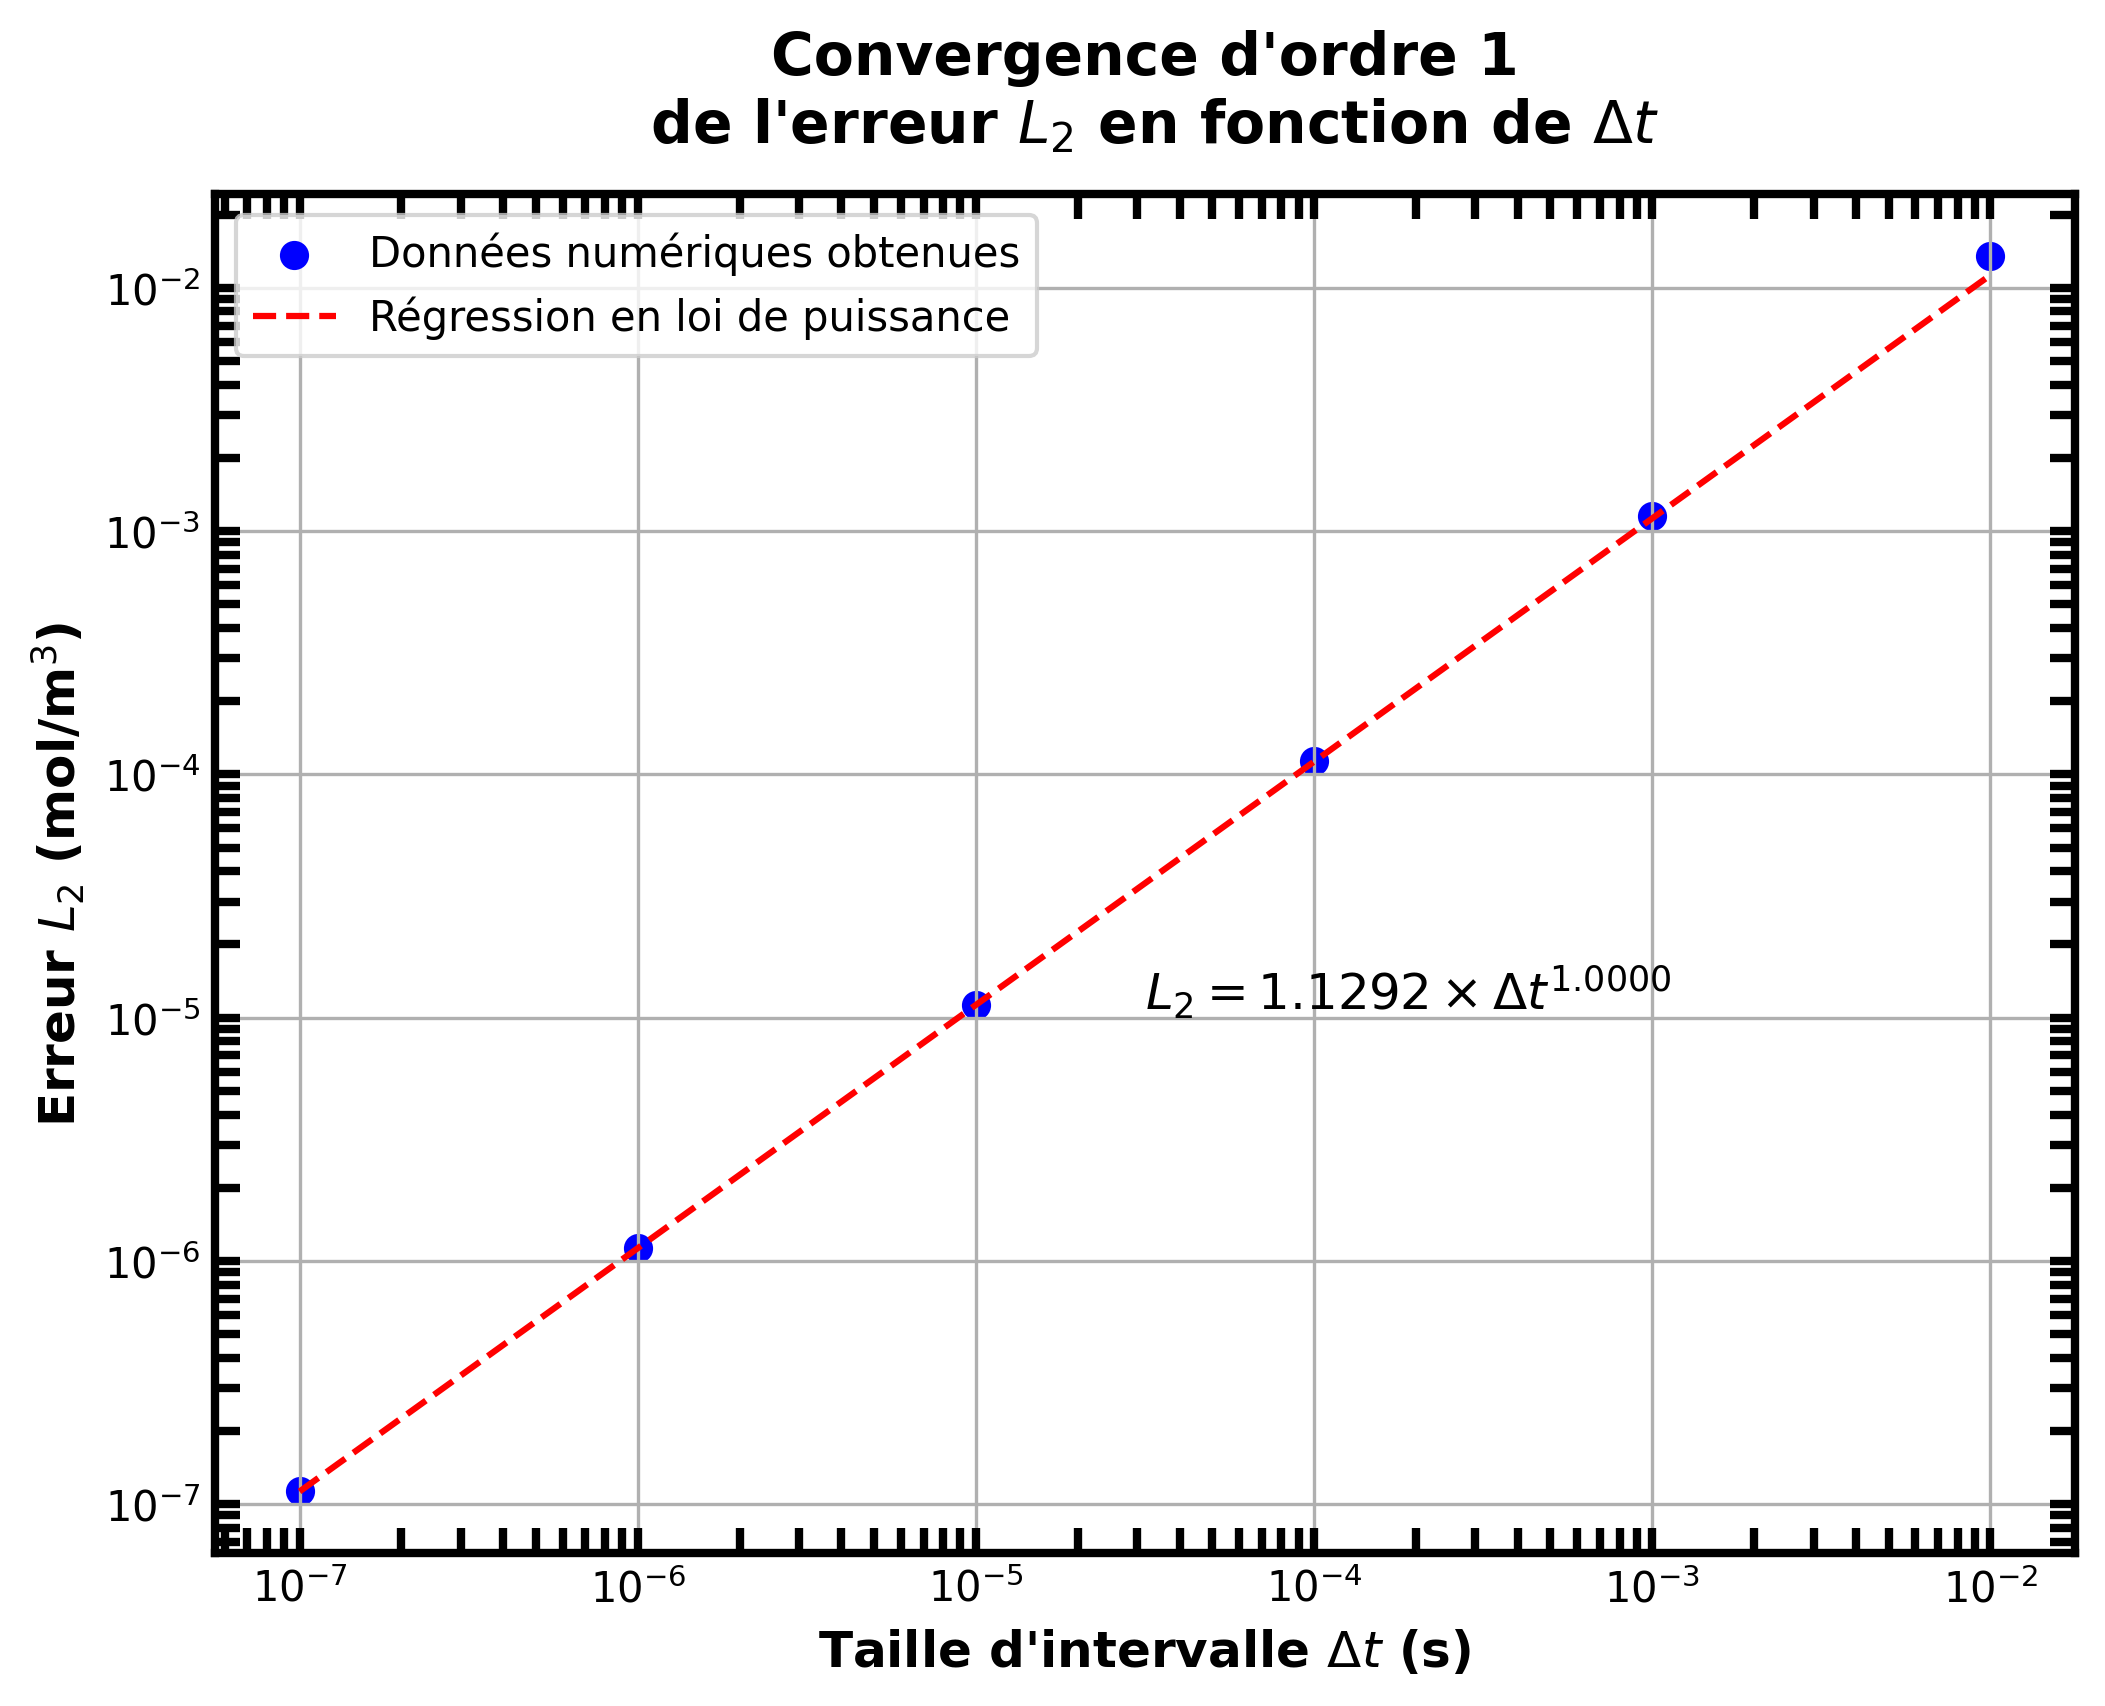
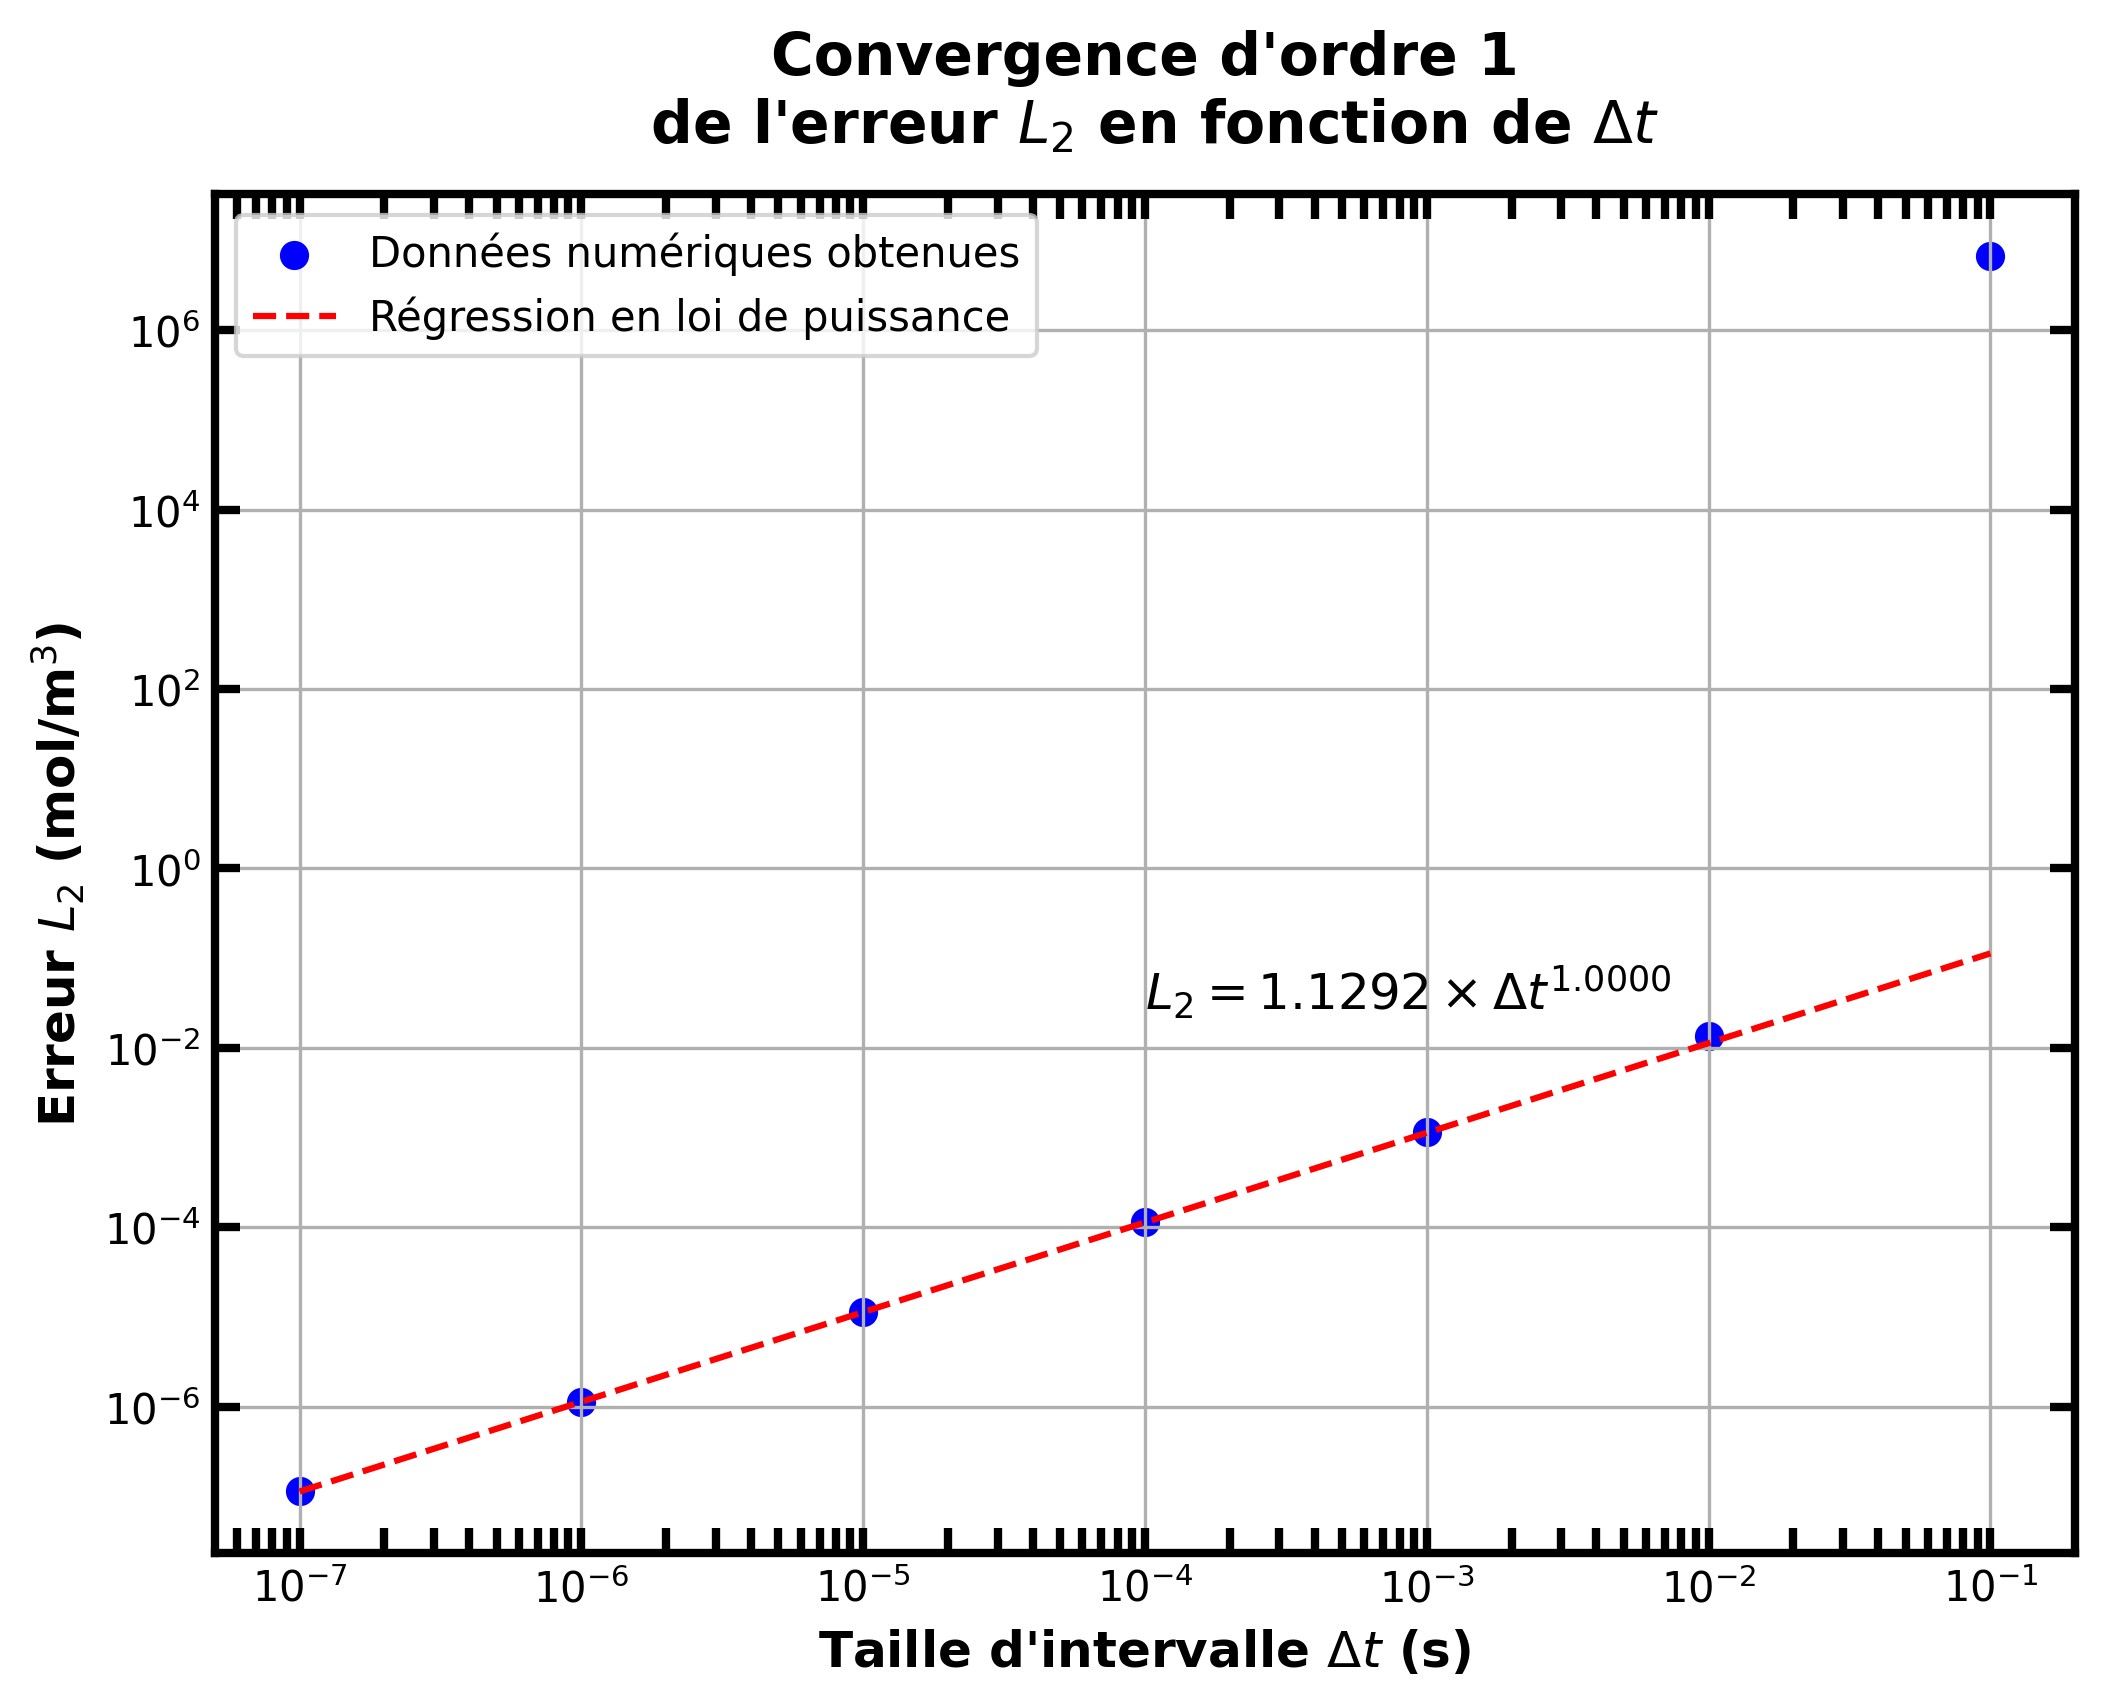
modification des anal_conv

diff --git a/src/anal_conv_euler.py b/src/anal_conv_euler.py
@@ -29,7 +29,7 @@ except:
 
 #%%============= ANALYSE CONVERGENCE - TEMPORELLE ===============%%#
 
-delta_t = np.array([1e-7,1e-6,1e-5,1e-4,1e-3,1e-2, 1e-1])
+delta_t = np.array([1e-5,1e-4,1e-3,1e-2, 1e-1])
 
 vec_l2_t = np.array([])
 
@@ -39,16 +39,14 @@ for i in range(0, len(delta_t)):
     
     x_anal, t = sol_analytique(prm)
 
-    vec_x, vec_v, vec_a, t = verlet(prm)
+    t_vect, x_vect, v_vect = euler(prm)
 
-    L2_verlet = f_L2(vec_x, x_anal)
+    L2_euler = f_L2(x_vect, x_anal)
 
-    vec_l2_t = np.append(vec_l2_t, L2_verlet)
-
-#vec_l2_t = np.array([1.128497e-7,1.128515e-6,1.1287e-5,1.1305e-4,1.14912e-3,1.3517e-2])
+    vec_l2_t = np.append(vec_l2_t, L2_euler)
 
 # Ajuster une loi de puissance à toutes les valeurs (en utilisant np.polyfit avec logarithmes)
-coefficients = np.polyfit(np.log(delta_t[0:-4]), np.log(vec_l2_t[0:-4]), 1)
+coefficients = np.polyfit(np.log(delta_t[0:-3]), np.log(vec_l2_t[0:-3]), 1)
 exponent = coefficients[0]
 
 # Fonction de régression en termes de logarithmes
@@ -97,5 +95,5 @@ plt.xscale('log')
 plt.yscale('log')
 plt.grid(True)
 plt.legend()
-plt.savefig("L2_verlet_dt.png", dpi=300,bbox_inches='tight')
+plt.savefig("L2_euler_dt.png", dpi=300,bbox_inches='tight')
 plt.show()
